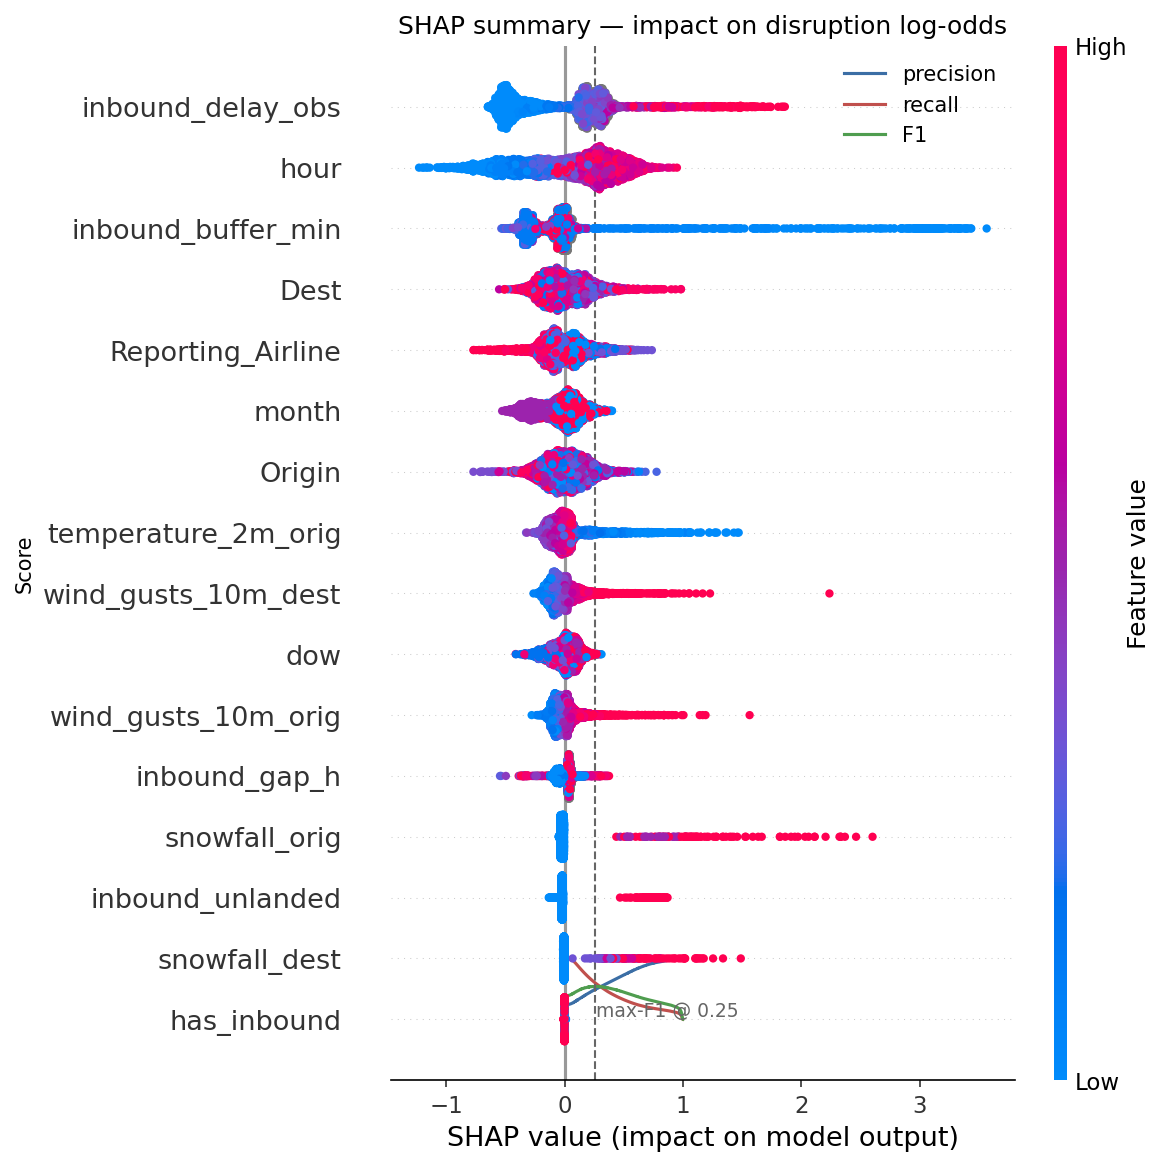
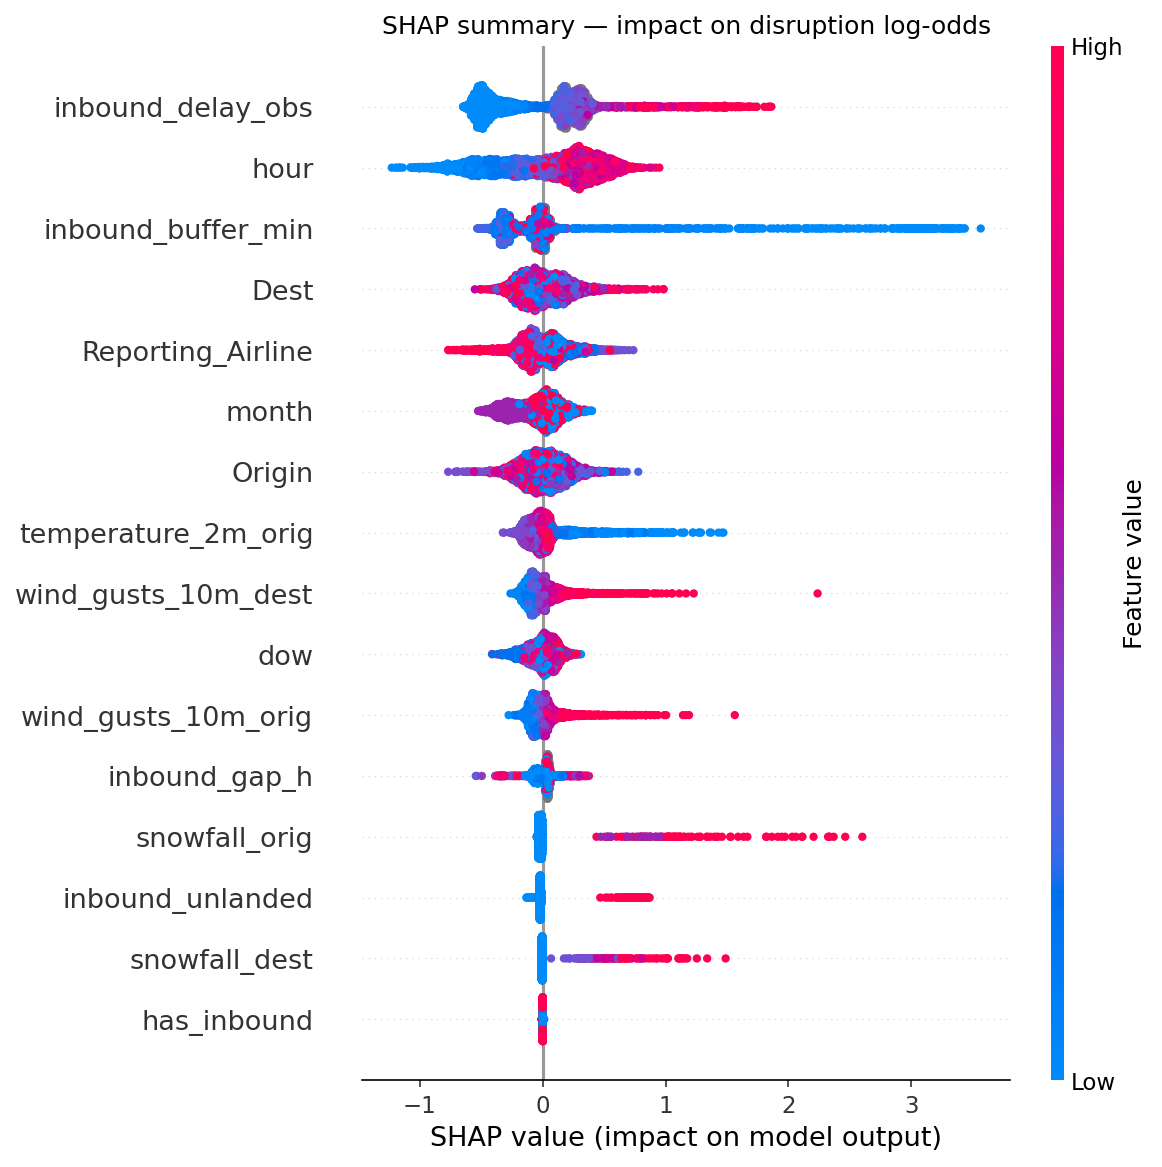
feat(llm): explain() handoff + grounded narration layer (Phase 4 start)
- FlightExplainer (src/llm/explain.py): one flight -> structured object with
  calibrated probability, risk tier, and top signed SHAP drivers as clauses
- narrate() (src/llm/narrate.py): object -> 2-4 sentence traveler explanation
  via Claude Haiku 4.5, faithfulness-constrained system prompt
- Fix two faithfulness bugs: fabricated probabilities (clamped probability_text
  + raw prob stripped from LLM payload) and certainty language

diff --git a/src/llm/explain.py b/src/llm/explain.py
@@ -1,0 +1,167 @@
+"""Phase 3 -> Phase 4 handoff: turn one flight into a structured explanation.
+
+FlightExplainer bundles the trained model, the isotonic calibrator, and a
+feature-to-language mapping. Its explain() emits a JSON-serializable object --
+calibrated probability, risk tier, and the top signed SHAP drivers as readable
+clauses -- which is the ONLY thing the LLM layer is permitted to draw on.
+"""
+import numpy as np
+import pandas as pd
+
+_MONTHS = ["", "January", "February", "March", "April", "May", "June", "July",
+           "August", "September", "October", "November", "December"]
+_DOW = ["Monday", "Tuesday", "Wednesday", "Thursday", "Friday", "Saturday", "Sunday"]
+_CASCADE = {"inbound_gap_h", "inbound_delay_obs", "inbound_buffer_min", "inbound_unlanded"}
+
+
+def _clean(v):
+    """Coerce numpy/pandas scalars to plain JSON-friendly Python values."""
+    if v is None or (np.isscalar(v) and pd.isna(v)):
+        return None
+    if isinstance(v, np.integer):
+        return int(v)
+    if isinstance(v, np.floating):
+        return round(float(v), 3)
+    if isinstance(v, (int, float, bool, str)):
+        return v
+    return str(v)
+
+
+def _hour_phrase(h):
+    h = int(h)
+    if h < 6:   return f"a {h:02d}:00 red-eye departure"
+    if h < 11:  return f"an early {h:02d}:00 departure"
+    if h < 16:  return f"a midday {h:02d}:00 departure"
+    if h < 20:  return f"an afternoon {h:02d}:00 departure"
+    return f"a late {h:02d}:00 departure"
+
+
+def _phrase(feature, value, up):
+    """Readable clause for one driver; `up` is True when it pushes risk up."""
+    f = feature
+    if f == "inbound_buffer_min":
+        if up:
+            v = int(round(value))
+            return ("the inbound aircraft has no spare turnaround time" if v <= 0
+                    else f"the inbound aircraft has only ~{v} min of spare turnaround time")
+        return f"the inbound aircraft has ample spare turnaround time (~{int(round(value))} min)"
+    if f == "inbound_delay_obs":
+        return (f"the inbound aircraft is running ~{int(round(value))} min behind" if up
+                else "the inbound aircraft is on or ahead of schedule")
+    if f == "inbound_unlanded":
+        return ("the inbound aircraft still hasn't landed by departure time" if up
+                else "the inbound aircraft has already landed")
+    if f == "inbound_gap_h":
+        v = round(float(value), 1)
+        return (f"a tight scheduled turnaround (~{v} h)" if up
+                else f"a comfortable scheduled turnaround (~{v} h)")
+    if f == "Origin":
+        return (f"departing {value}, which tends toward higher disruption" if up
+                else f"departing {value}, which tends to run smoothly")
+    if f == "Dest":
+        return (f"arriving into {value}, which tends toward higher disruption" if up
+                else f"arriving into {value}, which tends to run smoothly")
+    if f == "Reporting_Airline":
+        return (f"operated by {value}, which the model links to more disruption" if up
+                else f"operated by {value}, a relatively reliable carrier")
+    if f == "hour":
+        base = _hour_phrase(value)
+        return (f"{base}, when delays tend to accumulate" if up
+                else f"{base}, before the day's delays build up")
+    if f == "month":
+        name = _MONTHS[int(value)]
+        return (f"{name}, a higher-disruption month" if up else f"{name}, a relatively calm month")
+    if f == "dow":
+        name = _DOW[int(value)]
+        return (f"a {name}, a busier travel day" if up else f"a {name}, a lighter travel day")
+    if f in ("snowfall_orig", "snowfall_dest"):
+        where = "departure" if f.endswith("orig") else "destination"
+        return (f"snowfall at the {where} airport (~{round(float(value), 1)} cm/h)" if up
+                else f"no meaningful snow at the {where} airport")
+    if f in ("wind_gusts_10m_orig", "wind_gusts_10m_dest"):
+        where = "departure" if f.endswith("orig") else "destination"
+        return (f"strong wind gusts at the {where} airport (~{int(round(value))} km/h)" if up
+                else f"light winds at the {where} airport")
+    if f == "temperature_2m_orig":
+        v = int(round(value))
+        if up:
+            return (f"cold conditions at the departure airport (~{v}\u00b0C)" if v <= 5
+                    else f"hot conditions at the departure airport (~{v}\u00b0C)")
+        return f"mild temperatures at the departure airport (~{v}\u00b0C)"
+    return f"{feature} = {value}"
+
+
+def _magnitude(abs_shap, bands=(0.3, 1.0)):
+    lo, hi = bands
+    return "strong" if abs_shap >= hi else "moderate" if abs_shap >= lo else "slight"
+
+def _prob_text(p):
+    """ human-readable probability phrase; never 0% or 100%."""
+    if p >= 0.995: return "over 99%"
+    if p < 0.01:   return "under 1%"
+    return f"about {int(round(p * 100))}%"
+
+class FlightExplainer:
+    def __init__(self, model, calibrator, features, base_rate, cat_dtypes,
+                 threshold=0.25, top_up=5, top_down=3, floor=0.1, mag_bands=(0.3, 1.0)):
+        self.model = model
+        self.calibrator = calibrator
+        self.features = list(features)
+        self.base_rate = float(base_rate)
+        self.cat_dtypes = dict(cat_dtypes)
+        self.threshold = threshold
+        self.top_up, self.top_down = top_up, top_down
+        self.floor, self.mag_bands = floor, mag_bands
+
+    def _row_to_frame(self, s):
+        # Rebuild a 1-row frame with the EXACT training dtypes so category codes
+        # (and therefore the prediction and its SHAP values) match training.
+        X = pd.DataFrame([s[self.features].values], columns=self.features)
+        for c in self.features:
+            X[c] = X[c].astype(self.cat_dtypes[c]) if c in self.cat_dtypes else pd.to_numeric(X[c])
+        return X
+
+    def _risk_level(self, p):
+        return "high" if p >= 0.50 else "elevated" if p >= self.threshold else "low"
+
+    def explain(self, flight):
+        s = flight if isinstance(flight, pd.Series) else pd.Series(flight)
+        X = self._row_to_frame(s)
+
+        raw = float(self.model.predict(X)[0])
+        prob = float(self.calibrator.predict([raw])[0]) if self.calibrator is not None else raw
+
+        contribs = self.model.predict(X, pred_contrib=True)[0]   # exact TreeSHAP, log-odds
+        shap = dict(zip(self.features, contribs[:-1]))
+        has_inbound = int(s.get("has_inbound", 0)) == 1
+
+        rows = []
+        for f, sv in shap.items():
+            if f == "has_inbound" or (f in _CASCADE and not has_inbound) or abs(sv) < self.floor:
+                continue
+            up = sv > 0
+            rows.append({"feature": f, "value": _clean(s[f]), "impact": round(float(sv), 3),
+                         "magnitude": _magnitude(abs(sv), self.mag_bands),
+                         "text": _phrase(f, s[f], up), "_up": up})
+
+        inc = sorted([r for r in rows if r["_up"]], key=lambda r: -abs(r["impact"]))[:self.top_up]
+        dec = sorted([r for r in rows if not r["_up"]], key=lambda r: -abs(r["impact"]))[:self.top_down]
+        for r in inc + dec:
+            del r["_up"]
+
+        return {
+            "flight": {
+                "origin": _clean(s.get("Origin")), "dest": _clean(s.get("Dest")),
+                "carrier": _clean(s.get("Reporting_Airline")),
+                "dep_hour_local": int(s["hour"]) if "hour" in s.index else None,
+                "date": str(pd.to_datetime(s["FlightDate"]).date()) if "FlightDate" in s.index else None,
+            },
+            "prediction": {
+                "probability": max(round(prob, 4), 0.0001), "base_rate": round(self.base_rate, 4),
+                "probability_text": _prob_text(prob),
+                "risk_level": self._risk_level(prob),
+                "flagged": bool(prob >= self.threshold), "threshold": self.threshold,
+            },
+            "drivers": {"increasing": inc, "decreasing": dec},
+            "meta": {"has_inbound": has_inbound, "n_drivers": len(inc) + len(dec)},
+        }

diff --git a/src/llm/narrate.py b/src/llm/narrate.py
@@ -1,0 +1,32 @@
+"""Turn a FlightExplainer object into a grounded, traveler-facing explanation.
+
+The structured object is the ONLY sanctioned source of facts; the system prompt
+constrains the model to it so the output stays faithful (and the faithfulness
+eval can score it against the same object).
+"""
+import json
+from anthropic import Anthropic
+
+SYSTEM = """You write short, clear flight-disruption-risk explanations for everyday air travelers.
+
+You are given a JSON object describing one flight: a model's predicted disruption probability, a risk level, and the specific factors ("drivers") that pushed the prediction up or down. A flight is "disrupted" if it arrives 15+ minutes late or is cancelled.
+
+Follow these rules exactly:
+- Use ONLY the information in the JSON. Do not add any cause, weather condition, air-traffic, holiday, congestion, or airport detail that is not present in the drivers. If a fact is not in the JSON, you do not know it and must not state it.
+- State the risk level. For the probability, quote the exact phrase in `prediction.probability_text` (e.g., "about 78%", "over 99%", "under 1%"). Do not compute or state any other number, and never say "0%" or "100%". You may compare qualitatively to a typical flight using `base_rate`, but do not compute exact ratios.
+- Each driver has a direction: "increasing" drivers raise the risk, "decreasing" drivers lower it. Never describe a driver in the wrong direction. Lead with increasing drivers for an elevated/high-risk flight and decreasing (protective) drivers for a low-risk flight; emphasize "strong" drivers over "slight" ones.
+- This is a probability, never a certainty. Do NOT write that a flight "will" be delayed, "cannot depart on schedule", or that the traveler "can expect" it to arrive on time. Use only "at high/elevated/low risk" framing.
+- Write 2-4 sentences of plain text for a traveler — no markdown, asterisks, bold, lists, jargon, or preamble. Output only the explanation. """
+
+
+def narrate(explanation, client=None, model="claude-haiku-4-5", max_tokens=300, temperature=0):
+    """Generate a natural-language explanation from a FlightExplainer object."""
+    client = client or Anthropic()
+    payload = json.dumps(explanation, indent=2)
+    msg = client.messages.create(
+        model=model, max_tokens=max_tokens, temperature=temperature, system=SYSTEM,
+        messages=[{"role": "user", "content":
+                   f"<flight_analysis>\n{payload}\n</flight_analysis>\n\n"
+                   "Write the disruption-risk explanation for this flight."}],
+    )
+    return "".join(b.text for b in msg.content if b.type == "text").strip()

diff --git a/notebooks/04_gbm.py b/notebooks/04_gbm.py
@@ -295,4 +295,36 @@ with mlflow.start_run(run_name="shap_analysis"):
                "shap_waterfall_highrisk.png", "shap_waterfall_lowrisk.png"]:
         mlflow.log_artifact(str(FIG_DIR / fn))
 print("SHAP analysis logged to MLflow")
+# %% --- Test the FlightExplainer handoff -----------------------------
+import json
+from src.llm.explain import FlightExplainer
+
+explainer = FlightExplainer(
+    model=gbm, calibrator=iso, features=FEATURES,
+    base_rate=float(m[TARGET_COL].mean()),
+    cat_dtypes={c: m[c].dtype for c in CAT},
+)
+for tag, i in [("HIGH", i_hi), ("LOW", i_lo)]:
+    print(f"\n===== {tag}-RISK FLIGHT =====")
+    print(json.dumps(explainer.explain(S.iloc[i]), indent=2, default=str))
+
+# %%
+# %% --- First LLM explanations -----------------------------------
+from anthropic import Anthropic
+from src.llm.narrate import narrate
+
+import importlib, src.llm.explain, src.llm.narrate
+importlib.reload(src.llm.explain); importlib.reload(src.llm.narrate)
+from src.llm.explain import FlightExplainer
+from src.llm.narrate import narrate
+explainer = FlightExplainer(model=gbm, calibrator=iso, features=FEATURES,
+                            base_rate=float(m[TARGET_COL].mean()),
+                            cat_dtypes={c: m[c].dtype for c in CAT})
+
+client = Anthropic()
+for tag, i in [("HIGH", i_hi), ("LOW", i_lo)]:
+    obj = explainer.explain(S.iloc[i])
+    print(f"\n===== {tag}-RISK: {obj['flight']['origin']}->{obj['flight']['dest']}, "
+          f"p={obj['prediction']['probability']:.3f} ({obj['prediction']['risk_level']}) =====")
+    print(narrate(obj, client=client))
 # %%
